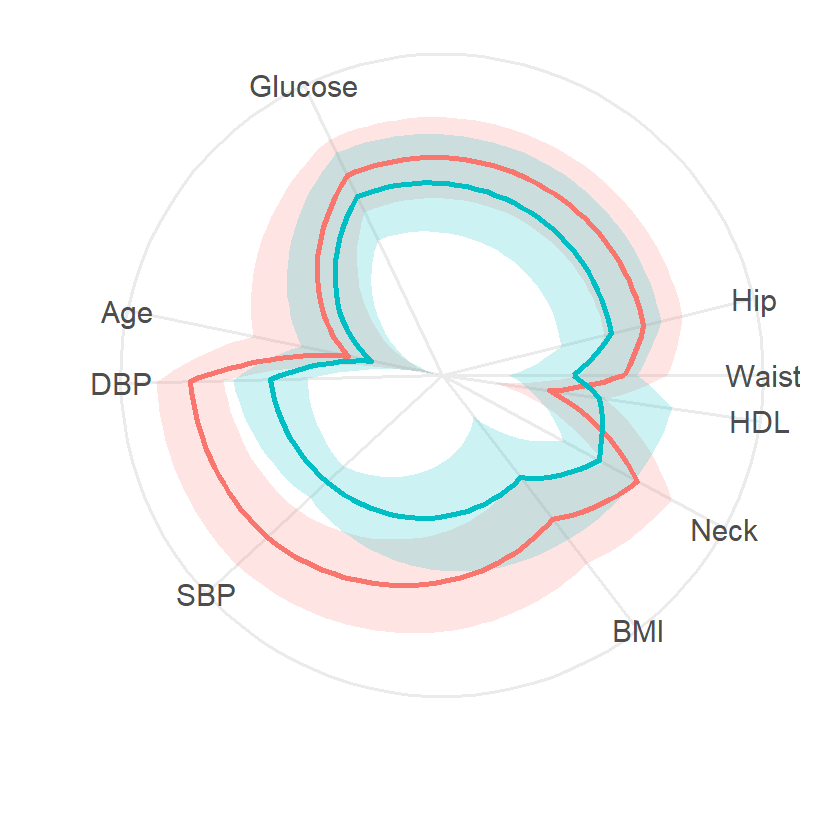
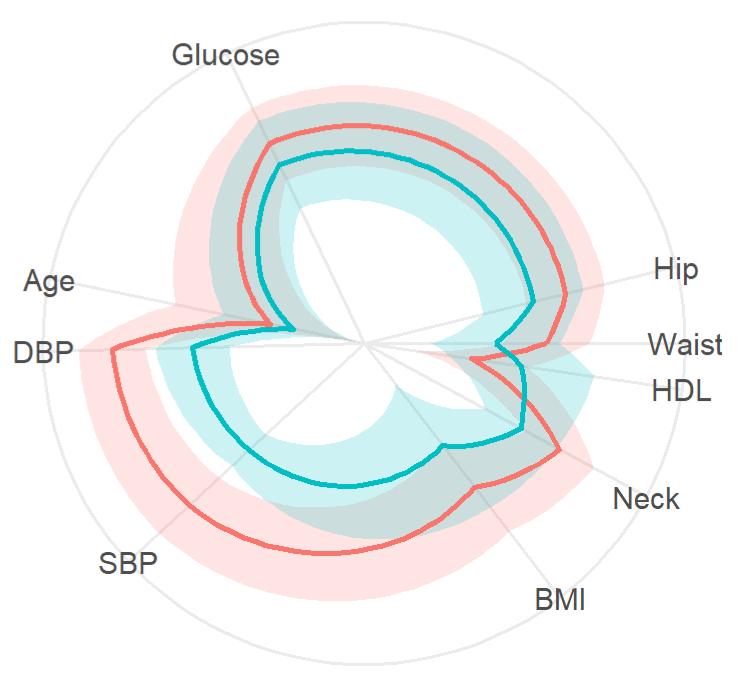
Update README file.

diff --git a/README.md b/README.md
@@ -8,11 +8,22 @@
 
 The `corradar` R package was designed to address the limitations of typical radar plots. 
 
-First, corradar plots use a correlation based algorithm to calculate axes positions, as opposed to axes order being set arbitrarily in typical radar plots. 
 
-Corradar plots also take inspiration 
+
+First, corradar plots use a correlation based algorithm to calculate axes positions, as opposed to axes order being set arbitrarily in typical radar plots. The ideology of this algorithm is that variables with stronger linear pair-wise correlations will be closer in proximity on the corradar plot than weak correlations.
+In the example corradar plot of test patient health profiles, we can see that hip and waist measurements are generally more strongly correlated than waist measurements and age.
 
 <img src="man/figures/corradar_example.png" width="100%" />
+
+![Example corradar plot](man/figures/corradar_example.png)
+
+Corradar plots also take inspiration from parallel coordinate plots in order to normalize axis, with the center of the corradar plot being the minimum value for each variable, and the outermost ring being the maximum.
+
+Additionally, corradar plots implement curved lines to show mean values for each variable, with shaded bands showing one standard deviation above and below, to see the approximate shape of the variable's distribution.
+
+Corradar plots also are able to plot multiple groups of data on the same plot for comparison.
+
+
 
 
 
